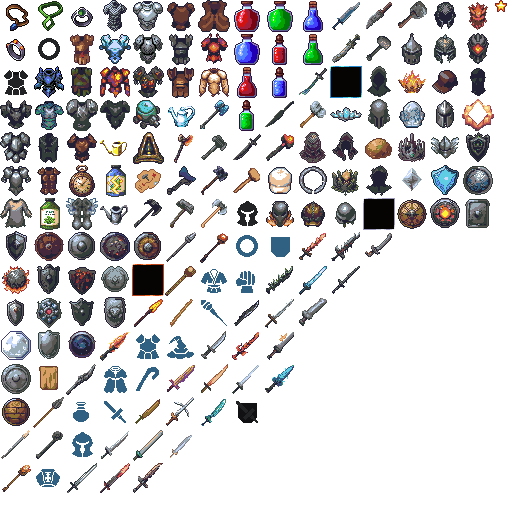
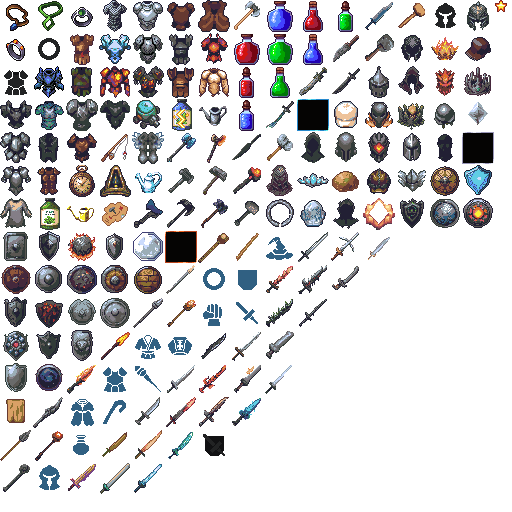
Gate the Fishing Pond behind a Fishing Pole artifact
The Fishing Pond is now offered in Construction > Buildings only once the
hero owns the Fishing Pole, a new Local artifact sold in the Second Chance
shop for 50,000 G with no prerequisites. A PlaceBuilding request for a pond
without it is refused.

- ArtifactType.FishingPole = 11 (appended; ArtifactCatalog.Count = 12)
- LocalArtifactEffects.HasFishingPond, checked in CanPlaceAnother
- Icon from Retro Diffusion, snapped to DB32 by role with the background
  remover's white fringe removed; it is frame 12 (tag FishingPole) of
  Art/PitHero/Artifacts.aseprite, exported to Items/Artifacts/FishingPole.png
- Items repacked (still under ReplayFrameFormatVersion 15)
- ReplaySystem.md: Fishing Pole row in the artifact table, v15 note

diff --git a/PitHero/GameConfig.cs b/PitHero/GameConfig.cs
@@ -805,7 +805,7 @@ namespace PitHero
         public const int ReplayTileKeyframeIntervalChunks = 1;                 // Full mutable tile-layer snapshot every N chunks (~1 KB compressed, so every chunk)
         public const long ReplayFrameMemoryBudgetBytes = 192L * 1024 * 1024;   // Compressed chunks held in RAM; beyond it, chunks already spilled to the sidecar are evicted
         public const long ReplayFrameCacheDiskBudgetBytes = 4L * 1024 * 1024 * 1024; // All .frames sidecars under replays/; oldest deleted first, .bin recordings never touched
-        public const int ReplayFrameFormatVersion = 15;                       // Sidecar cache format; bumping orphans old .frames (re-simulated, then self-cached), never a .bin. v2 (#431): Particle op, sound events; v3 (#431): HUD record carries the static hero portrait (walk-down frame 0 sprite ids + tints); v4 (#432): chunk payloads are Brotli, not deflate; v5: the UI hover markers are live-only (a v4 cache would draw its recorded markers over the live ones); v6: HUD record carries the battle monsters (portrait, HP, position), the on-monster HP bar ops are gone; v7: hero art moved to the Move set, so Actors atlas rects changed and the HUD record carries the EyesBase portrait layer; v8 (#450): Items atlas repacked for the watering-can artifacts, so Items rects changed; v9 (#452): CropsProps atlas repacked for the gem dig site, so CropsProps rects changed; v10 (#452): CropsProps repacked again for the gem glints; v11 (#452): Items repacked for the Prospector's Map icon; v12 (#452): CropsProps repacked for the Digging Field (mound and glints removed); v13 (#452): CropsProps repacked for the dig junk sprites; v14 (#452): Actors and Items repacked for the DigBot (animations and artifact icon); v15: CropsProps repacked (now 1024x1024) for the Fishing Pond animation
+        public const int ReplayFrameFormatVersion = 15;                       // Sidecar cache format; bumping orphans old .frames (re-simulated, then self-cached), never a .bin. v2 (#431): Particle op, sound events; v3 (#431): HUD record carries the static hero portrait (walk-down frame 0 sprite ids + tints); v4 (#432): chunk payloads are Brotli, not deflate; v5: the UI hover markers are live-only (a v4 cache would draw its recorded markers over the live ones); v6: HUD record carries the battle monsters (portrait, HP, position), the on-monster HP bar ops are gone; v7: hero art moved to the Move set, so Actors atlas rects changed and the HUD record carries the EyesBase portrait layer; v8 (#450): Items atlas repacked for the watering-can artifacts, so Items rects changed; v9 (#452): CropsProps atlas repacked for the gem dig site, so CropsProps rects changed; v10 (#452): CropsProps repacked again for the gem glints; v11 (#452): Items repacked for the Prospector's Map icon; v12 (#452): CropsProps repacked for the Digging Field (mound and glints removed); v13 (#452): CropsProps repacked for the dig junk sprites; v14 (#452): Actors and Items repacked for the DigBot (animations and artifact icon); v15: CropsProps repacked (now 1024x1024) for the Fishing Pond animation, Items repacked for the Fishing Pole icon
         // Brotli settings for the chunk payload (issue #432). Measured on an 8.4-hour, ~950-renderable session: deflate Optimal kept
         // 18.5% of the raw bytes (51 MB/h); Brotli q5/w22 13.3% (37 MB/h) in 1.8 ms per chunk on the sidecar worker; q9 the same size
         // for 10 ms; q11 12.0% for 106 ms. The window (2^22 = 4 MB) covers a whole chunk, which deflate's 32 KB window never did.
@@ -854,6 +854,7 @@ namespace PitHero
         public const int ArtifactPlatinumWateringCanPrice = 500000;      // Gold; requires the gold can first
         public const int ArtifactProspectorsMapPrice = 50000;            // Gold; unlocks the Digging Field (issue #452)
         public const int ArtifactDigBotPrice = 100000;                   // Gold; a robot that digs the Digging Field (offered once a field is placed)
+        public const int ArtifactFishingPolePrice = 50000;               // Gold; unlocks the Fishing Pond
         public const int SilverWateringCanCharges = 6;                   // Tiles watered per can-full; the best owned can wins, the cans never stack
         public const int GoldWateringCanCharges = 12;
         public const int PlatinumWateringCanCharges = 24;

diff --git a/PitHero/Artifacts/ArtifactType.cs b/PitHero/Artifacts/ArtifactType.cs
@@ -39,6 +39,9 @@ namespace PitHero.Artifacts
 
         /// <summary>Local: a robot that digs the Digging Field on its own. Requires the Prospector's Map and a placed field.</summary>
         DigBot = 10,
+
+        /// <summary>Local: unlocks the Fishing Pond building.</summary>
+        FishingPole = 11,
     }
 
     /// <summary>
@@ -55,7 +58,7 @@ namespace PitHero.Artifacts
     public static class ArtifactCatalog
     {
         /// <summary>Number of artifact kinds (the enum is dense from 0; retired ordinals count).</summary>
-        public const int Count = 11;
+        public const int Count = 12;
 
         /// <summary>
         /// True for an artifact that no longer exists in the game but whose ordinal is reserved because
@@ -82,6 +85,7 @@ namespace PitHero.Artifacts
                 case ArtifactType.PlatinumWateringCan: return "PlatinumWateringCan";
                 case ArtifactType.ProspectorsMap: return "ProspectorsMap";
                 case ArtifactType.DigBot: return "DigBot";
+                case ArtifactType.FishingPole: return "FishingPole";
                 default: return string.Empty;
             }
         }
@@ -101,6 +105,7 @@ namespace PitHero.Artifacts
                 case ArtifactType.PlatinumWateringCan: return UITextKey.ArtifactPlatinumWateringCanName;
                 case ArtifactType.ProspectorsMap: return UITextKey.ArtifactProspectorsMapName;
                 case ArtifactType.DigBot: return UITextKey.ArtifactDigBotName;
+                case ArtifactType.FishingPole: return UITextKey.ArtifactFishingPoleName;
                 default: return string.Empty;
             }
         }
@@ -120,6 +125,7 @@ namespace PitHero.Artifacts
                 case ArtifactType.PlatinumWateringCan: return UITextKey.ArtifactPlatinumWateringCanDesc;
                 case ArtifactType.ProspectorsMap: return UITextKey.ArtifactProspectorsMapDesc;
                 case ArtifactType.DigBot: return UITextKey.ArtifactDigBotDesc;
+                case ArtifactType.FishingPole: return UITextKey.ArtifactFishingPoleDesc;
                 default: return string.Empty;
             }
         }
@@ -135,6 +141,7 @@ namespace PitHero.Artifacts
                 case ArtifactType.KairosMetronome: return UITextKey.ArtifactKairosMetronomeEffect;
                 case ArtifactType.ProspectorsMap: return UITextKey.ArtifactProspectorsMapEffect;
                 case ArtifactType.DigBot: return UITextKey.ArtifactDigBotEffect;
+                case ArtifactType.FishingPole: return UITextKey.ArtifactFishingPoleEffect;
                 default: return string.Empty;
             }
         }
@@ -154,6 +161,7 @@ namespace PitHero.Artifacts
                 case ArtifactType.PlatinumWateringCan: return GameConfig.ArtifactPlatinumWateringCanPrice;
                 case ArtifactType.ProspectorsMap: return GameConfig.ArtifactProspectorsMapPrice;
                 case ArtifactType.DigBot: return GameConfig.ArtifactDigBotPrice;
+                case ArtifactType.FishingPole: return GameConfig.ArtifactFishingPolePrice;
                 default: return 0;
             }
         }
@@ -171,6 +179,7 @@ namespace PitHero.Artifacts
                 case ArtifactType.PlatinumWateringCan:
                 case ArtifactType.ProspectorsMap:
                 case ArtifactType.DigBot:
+                case ArtifactType.FishingPole:
                     return ArtifactScope.Local;
                 default:
                     return ArtifactScope.Global;

diff --git a/PitHero/UI/BuildingModeOverlay.cs b/PitHero/UI/BuildingModeOverlay.cs
@@ -332,7 +332,7 @@ namespace PitHero.UI
             return placed < BuildingConfig.GetMaxCount(BuildingType.DiggingField);
         }
 
-        /// <summary>True when the Fishing Pond is offered: none is placed yet (only one can exist).</summary>
+        /// <summary>True when the Fishing Pond is offered: the Fishing Pole is owned and no pond is placed yet (only one can exist).</summary>
         private static bool IsFishingPondOffered() => CanPlaceAnother(BuildingType.FishingPond);
 
         /// <summary>
@@ -680,12 +680,16 @@ namespace PitHero.UI
 
         /// <summary>
         /// True when one more building of this type may be placed: under its count cap, and for the
-        /// Digging Field only with the Prospector's Map (issue #452). Re-checked by the command handler.
+        /// Digging Field only with the Prospector's Map (issue #452), the Fishing Pond only with the
+        /// Fishing Pole. Re-checked by the command handler.
         /// </summary>
         public static bool CanPlaceAnother(BuildingType type)
         {
             if (type == BuildingType.DiggingField
                 && !Artifacts.LocalArtifactEffects.HasGemDigSite(Core.Services.GetService<GameStateService>()))
+                return false;
+            if (type == BuildingType.FishingPond
+                && !Artifacts.LocalArtifactEffects.HasFishingPond(Core.Services.GetService<GameStateService>()))
                 return false;
             int placed = Core.Services.GetService<BuildingService>()?.GetCountOfType(type) ?? 0;
             return placed < BuildingConfig.GetMaxCount(type);

diff --git a/PitHero.Tests/ArtifactServiceTests.cs b/PitHero.Tests/ArtifactServiceTests.cs
@@ -163,7 +163,13 @@ namespace PitHero.Tests
         [TestMethod]
         public void Catalog_ScopesAndPrices()
         {
-            Assert.AreEqual(11, ArtifactCatalog.Count, "The retired Sphere keeps its ordinal; the enum is never renumbered");
+            Assert.AreEqual(12, ArtifactCatalog.Count, "The retired Sphere keeps its ordinal; the enum is never renumbered");
+            Assert.AreEqual(11, (int)ArtifactType.FishingPole);
+            Assert.IsTrue(ArtifactCatalog.IsLocal(ArtifactType.FishingPole));
+            Assert.AreEqual(50000, ArtifactCatalog.GetPrice(ArtifactType.FishingPole));
+            Assert.AreEqual("FishingPole", ArtifactCatalog.GetSpriteName(ArtifactType.FishingPole));
+            Assert.AreEqual(0, ArtifactCatalog.GetPrerequisites(ArtifactType.FishingPole).Length);
+            Assert.AreEqual(UITextKey.ArtifactFishingPoleEffect, ArtifactCatalog.GetEffectKey(ArtifactType.FishingPole));
             Assert.AreEqual(9, (int)ArtifactType.ProspectorsMap);
             Assert.IsTrue(ArtifactCatalog.IsLocal(ArtifactType.ProspectorsMap));
             Assert.AreEqual(50000, ArtifactCatalog.GetPrice(ArtifactType.ProspectorsMap));

diff --git a/PitHero.Tests/LocalArtifactEffectsTests.cs b/PitHero.Tests/LocalArtifactEffectsTests.cs
@@ -72,6 +72,23 @@ namespace PitHero.Tests
         }
 
         [TestMethod]
+        public void FishingPond_NeedsTheFishingPole()
+        {
+            var state = new GameStateService();
+            Assert.IsFalse(LocalArtifactEffects.HasFishingPond(state));
+            Assert.IsFalse(LocalArtifactEffects.HasFishingPond(null));
+
+            state.GrantLocalArtifact(ArtifactType.ProspectorsMap);
+            Assert.IsFalse(LocalArtifactEffects.HasFishingPond(state), "Only the pole unlocks the pond");
+
+            state.GrantLocalArtifact(ArtifactType.FishingPole);
+            Assert.IsTrue(LocalArtifactEffects.HasFishingPond(state));
+
+            state.ClearLocalArtifacts();
+            Assert.IsFalse(LocalArtifactEffects.HasFishingPond(state), "A new hero starts without the pole");
+        }
+
+        [TestMethod]
         public void GameState_LocalArtifacts_GrantOrderVersionAndMask()
         {
             var state = new GameStateService();

diff --git a/PitHero/UITextKey.cs b/PitHero/UITextKey.cs
@@ -424,6 +424,9 @@ namespace PitHero
         public const string ArtifactDigBotName = "ArtifactDigBotName";
         public const string ArtifactDigBotDesc = "ArtifactDigBotDesc";
         public const string ArtifactDigBotEffect = "ArtifactDigBotEffect";
+        public const string ArtifactFishingPoleName = "ArtifactFishingPoleName";
+        public const string ArtifactFishingPoleDesc = "ArtifactFishingPoleDesc";
+        public const string ArtifactFishingPoleEffect = "ArtifactFishingPoleEffect";
         public const string ArtifactScopeGlobal = "ArtifactScopeGlobal";
         public const string ArtifactScopeLocal = "ArtifactScopeLocal";
         public const string ArtifactScopeGlobalTooltip = "ArtifactScopeGlobalTooltip";

diff --git a/PitHero/Artifacts/LocalArtifactEffects.cs b/PitHero/Artifacts/LocalArtifactEffects.cs
@@ -68,5 +68,14 @@ namespace PitHero.Artifacts
         {
             return HasGemDigSite(gameState) && gameState.OwnsLocalArtifact(ArtifactType.DigBot);
         }
+
+        /// <summary>
+        /// True when this hero owns the Fishing Pole, which unlocks the Fishing Pond building. The
+        /// PlaceBuilding handler ignores a Fishing Pond request without it.
+        /// </summary>
+        public static bool HasFishingPond(GameStateService gameState)
+        {
+            return gameState != null && gameState.OwnsLocalArtifact(ArtifactType.FishingPole);
+        }
     }
 }

diff --git a/PitHero/docs/ReplaySystem.md b/PitHero/docs/ReplaySystem.md
@@ -567,6 +567,7 @@ artifacts rewind with the save, so charging for them is safe.
 | Platinum Watering Can | Local | `ArtifactPlatinumWateringCanPrice` | 24 crops per can-full; the best owned can wins, the cans never stack (`LocalArtifactEffects.GetWateringCanCapacity`, read when the can is filled). Supersedes Gold | Gold Watering Can |
 | Prospector's Map | Local | `ArtifactProspectorsMapPrice` (50,000) | Unlocks the Digging Field building (issue #452): free, one per hero, Move only, 32 tiles that each rest `DiggingFieldCooldownSeconds` after a dig (`LocalArtifactEffects.HasGemDigSite`; the PlaceBuilding and DigGem handlers ignore requests without it). Per-tile cooldowns live in the scene-scoped `DiggingFieldService` and are never saved, so a load or seek starts with every tile ready | none |
 | DigBot | Local | `ArtifactDigBotPrice` (100,000) | A robot that digs the Digging Field on its own (issue #452), offered once the map is owned and a field is placed (`ArtifactCatalog.RequiresPlacedDiggingField`). `DigBotSpawner` (a scene component) creates or removes it from sim state every fixed step, and `DigBotComponent` walks and digs in the fixed step through `DiggingFieldService.TryDig`, rolling `Nez.Random` only for a dig that happens. Bot digs need no command: a replay re-creates them. Its walk is not saved, so a load or seek restarts it at the top left | Prospector's Map |
+| Fishing Pole | Local | `ArtifactFishingPolePrice` (50,000) | Unlocks the Fishing Pond building: free, one per hero, Move only, 8x6 tiles of water the farm pathfinder walls off whole (`LocalArtifactEffects.HasFishingPond`; the PlaceBuilding handler ignores a pond request without it). The pond's water loop is cosmetic and never read by the sim | none |
 
 - **One query surface.** `ArtifactService` (global, Game1) answers `Owns` / `GetOwnedInOrder` /
   `IsAvailableInShop` / `Grant` for both scopes: Global from the system file, Local from the attached
@@ -802,7 +803,7 @@ grid size and `SystemSaveFileName` in the "Artifacts" block. Frame stream and vi
 | `ReplayTileKeyframeIntervalChunks` | 1 | Full mutable tile-layer snapshot every N chunks (~1 KB deflated) |
 | `ReplayFrameMemoryBudgetBytes` | 192 MB | Compressed chunks held in RAM; beyond it, spilled chunks are evicted |
 | `ReplayFrameCacheDiskBudgetBytes` | 4 GB | All `replay_*.frames` caches; oldest deleted first, `.bin` never |
-| `ReplayFrameFormatVersion` | 14 | Bump on any op / HUD record / events / codec change, when something stops being recorded, or when an atlas is repacked (sprite ids key on texture and rect, so an old cache would draw the wrong regions); orphans every cache once (v4 = Brotli payloads, v5 = hover markers live-only, v6 = battle monsters in the HUD record, on-monster HP bar ops gone, v7 = Actors atlas rebuilt, EyesBase portrait layer, v8 = Items atlas repacked, v9 = CropsProps atlas repacked for the gem dig site, v10 = repacked again for its glints, v11 = Items repacked for the Prospector's Map, v12 = CropsProps repacked for the Digging Field, v13 = repacked for the dig junk, v14 = Actors and Items repacked for the DigBot) |
+| `ReplayFrameFormatVersion` | 15 | Bump on any op / HUD record / events / codec change, when something stops being recorded, or when an atlas is repacked (sprite ids key on texture and rect, so an old cache would draw the wrong regions); orphans every cache once (v4 = Brotli payloads, v5 = hover markers live-only, v6 = battle monsters in the HUD record, on-monster HP bar ops gone, v7 = Actors atlas rebuilt, EyesBase portrait layer, v8 = Items atlas repacked, v9 = CropsProps atlas repacked for the gem dig site, v10 = repacked again for its glints, v11 = Items repacked for the Prospector's Map, v12 = CropsProps repacked for the Digging Field, v13 = repacked for the dig junk, v14 = Actors and Items repacked for the DigBot, v15 = CropsProps repacked for the Fishing Pond and Items for the Fishing Pole) |
 | `ReplayFrameBrotliQuality` / `ReplayFrameBrotliWindowBits` | 5 / 22 | Chunk payload compression; measured sweet spot (see "Chunks") |
 | `ReplayFrameViewSpeedSteps` / `Labels` | `SpeedSteps` + 16X, 32X | View-only ladder, no artifact gate |
 | `ReplayFrameViewSoundMaxSpeedIndex` | 1 (2X) | Recorded sounds play during forward play up to this rung |
